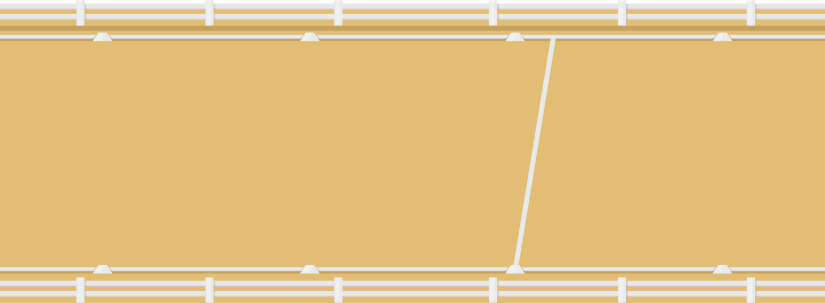
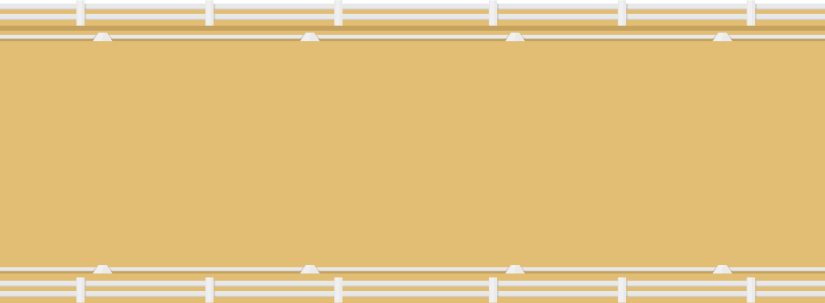
ui bugfixes

Changed region(s): [[0.6061, 0.1188, 0.697, 0.8614]]

diff --git a/src/components/PlayField/PlayField.tsx b/src/components/PlayField/PlayField.tsx
@@ -3,6 +3,7 @@ import Horse1 from './../../assets/images/horses/Horse1.svg?react'
 import Horse2 from './../../assets/images/horses/Horse2.svg?react'
 import Horse3 from './../../assets/images/horses/Horse3.svg?react'
 import Horse4 from './../../assets/images/horses/Horse4.svg?react'
+import FinishLine from './../../assets/images/FinishLine.svg?react'
 import HorseCrash from './../../assets/images/HorseCrash.svg'
 import { GameContext } from '../../context/GameContext'
 import { useContext, useEffect, useState } from 'react'
@@ -64,10 +65,18 @@ const PlayField = () => {
         if (!animationRunning) {
             setAnmationRunning(true)
             const background = document.getElementById("playfield-background");
+            const finishLine = document.getElementById('finish-line');
             const horse4 = document.getElementById('horse-4');
             const horse3 = document.getElementById('horse-3');
             const horse2 = document.getElementById('horse-2');
             const horse1 = document.getElementById('horse-1');
+
+            if (finishLine) {
+                finishLine.style.animation = 'start 10s ease-in'
+                setTimeout(() => {
+                    finishLine.style.visibility = 'hidden'
+                }, 5000)
+            }
 
             if (background && horse4 && horse3 && horse2 && horse1) {
                 background.style.animation = 'slide 10s ease-in infinite'
@@ -118,7 +127,7 @@ const PlayField = () => {
         <div
             style={{
                 backgroundImage: `url(${RaceTrack})`,
-                backgroundPositionX: '470px',
+                backgroundPositionX: '0px',
                 zIndex: 10,
                 // animation: 'slide 15s ease-in-out infinite',
             }}
@@ -131,14 +140,16 @@ const PlayField = () => {
                 id='horse-4'
                 style={{
                     left: !animationRunning ? '60px' : '15px',
-                    transition: 'left 6s ease-in-out'
+                    transition: 'left 6s ease-in-out',
+                    zIndex: 3
                 }}
             />
             <div
                 className='absolute bottom-[60%] sm:bottom-[68%] w-[182px] h-[154px] flex items-center justify-center'
                 style={{
                     backgroundImage: `url(${HorseCrash})`,
-                    display: 'none'
+                    display: 'none',
+                    zIndex: 4
                 }}
                 id='horse_crash-4'
             >
@@ -152,14 +163,16 @@ const PlayField = () => {
                 id='horse-3'
                 style={{
                     left: !animationRunning ? '45px' : '45%',
-                    transition: 'left 6s ease-in-out'
+                    transition: 'left 6s ease-in-out',
+                    zIndex: 3
                 }}
             />
             <div
                 className='absolute bottom-[40%] sm:bottom-[48%] w-[182px] h-[154px] flex items-center justify-center'
                 style={{
                     backgroundImage: `url(${HorseCrash})`,
-                    display: 'none'
+                    display: 'none',
+                    zIndex: 4
                 }}
                 id='horse_crash-3'
             >
@@ -173,7 +186,8 @@ const PlayField = () => {
                 id='horse-2'
                 style={{
                     left: !animationRunning ? '30px' : '60%',
-                    transition: 'left 6s ease-in-out'
+                    transition: 'left 6s ease-in-out',
+                    zIndex: 3
                 }}
             />
             <div
@@ -181,6 +195,7 @@ const PlayField = () => {
                 style={{
                     backgroundImage: `url(${HorseCrash})`,
                     display: 'none',
+                    zIndex: 4,
                 }}
                 id='horse_crash-2'
             >
@@ -194,14 +209,16 @@ const PlayField = () => {
                 id='horse-1'
                 style={{
                     left: !animationRunning ? '15px' : '25%',
-                    transition: 'left 6s ease-in-out'
+                    transition: 'left 6s ease-in-out',
+                    zIndex: 3
                 }}
             />
             <div
                 className='absolute bottom-[0] sm:bottom-[8%] w-[182px] h-[154px] flex items-center justify-center'
                 style={{
                     backgroundImage: `url(${HorseCrash})`,
-                    display: 'none'
+                    display: 'none',
+                    zIndex: 4
                 }}
                 id='horse_crash-1'
             >
@@ -210,6 +227,16 @@ const PlayField = () => {
                     className='drop-shadow-lg'
                 /> */}
             </div>
+
+            <FinishLine 
+                id="finish-line"
+                style={{
+                    position: 'absolute',
+                    left: '158px',
+                    top: '38px',
+                    zIndex: 2,
+                }}
+            />
 
             {/*  */}
         </div>

diff --git a/src/components/FieldBackground/FieldBackground.tsx b/src/components/FieldBackground/FieldBackground.tsx
@@ -10,7 +10,7 @@ import "./animation.css";
 
 const FieldBackground = () => {
     const {gameData, multiplierDisplay, selectedHorse, horseResults, isCashedOut} = useContext(GameContext);
-    const {isMoving, isNewGameSession, isCrashed} = gameData
+    const {isMoving, isCrashed} = gameData
     const [animationRunning, setAnmationRunning] = useState(false)
     const [isReadyMessage, setIsReadyMessage] = useState(false)
     const [multiplierValue, setMultiplierValue] = useState(multiplierDisplay);
@@ -82,7 +82,7 @@ const FieldBackground = () => {
         setTimeout(() => {
             setIsReadyMessage(false)
             setAnmationRunning(true)
-        }, 3000)
+        }, 5000)
         const fieldBg1 = document.getElementById("field-bg-1");
         const fieldBg2 = document.getElementById("field-bg-2");
         const fieldBg3 = document.getElementById("field-bg-3");
@@ -112,8 +112,8 @@ const FieldBackground = () => {
         const fieldBg3 = document.getElementById("field-bg-3");
         const fieldBg4 = document.getElementById("field-bg-4");
 
+        setAnmationRunning(false);
         if (fieldBg1 && fieldBg2 && fieldBg3 && fieldBg4) {
-            setAnmationRunning(false);
             fieldBg1.style.animation = 'slide 9s ease-out';
             fieldBg2.style.animation = 'slide 7s ease-out';
             fieldBg3.style.animation = 'slide 5s ease-out';
@@ -124,7 +124,7 @@ const FieldBackground = () => {
     return (
         <div className='relative h-[40%] overflow-hidden'>
 
-            {!isNewGameSession && !(isCashedOut || isCrashed) ?
+            {!animationRunning && !(isCashedOut || isCrashed) ?
                 <div className='absolute z-[5] top-[16px] h-[62px] w-[80%] mx-[10%] flex items-center justify-center bg-whiteOpaque rounded-[16px]'>
                     {!isReadyMessage ?
                         <p className='uppercase font-[700] text-[25px]'>
@@ -142,7 +142,7 @@ const FieldBackground = () => {
                         className='w-full z-[10] absolute top-[16px] w-full text-center text-darkblue uppercase font-[800] text-[48px]'
                         id='multiplierValue'
                         >
-                        {multiplierValue && multiplierValue.toFixed(2)}X
+                        {multiplierValue && !isDisplayResult ? `${multiplierValue.toFixed(2)}X` : ''}
                     </p>
                     <StarBonusIcon
                         id='starBonus'

diff --git a/src/components/BottomUI/BottomUI.tsx b/src/components/BottomUI/BottomUI.tsx
@@ -67,7 +67,7 @@ const BottomUI = () => {
                     <p className='drop-shadow-lg'>-</p>
                 </button>
                 
-                <div className='text-white font-[700] text-[24px]'>
+                <div className={`${!isMoving ? 'text-white' : 'text-whiteOpaque'} font-[700] text-[24px]`}>
                     {currentBet.toFixed(2)}
                 </div>
                 
@@ -109,7 +109,8 @@ const BottomUI = () => {
             <div className='bg-darkblue rounded-[8px] w-full flex justify-between p-[6px] mt-[8px] flex flex-wrap gap-[4px]'>
                 {!isMoving && !resetBtn ? <button
                     onClick={betBtnOnclick}
-                    className='bg-green text-darkblue uppercase w-full rounded-[4px] font-[700] text-[24px]'
+                    disabled={!selectedHorse || currentBet < 1}
+                    className={`text-darkblue uppercase w-full rounded-[4px] font-[700] text-[24px] ${!selectedHorse || !currentBet ? 'bg-disabledGreen' : "bg-green"}`}
                 >
                     Bet
                 </button>

diff --git a/src/components/DisplayResult/DisplayResult.tsx b/src/components/DisplayResult/DisplayResult.tsx
@@ -17,7 +17,7 @@ const DisplayResult = () => {
             }
         >
             <div className={`border-[2px] border-b-[1px] border-solid border-white uppercase rounded-t-[8px] ${isCrashed ? 'text-yellow text-[24px] border-yellow' : 'text-white text-[18px]'}`}>
-                {selectedHorse && !isCrashed && isCashedOut ? `${isLastHorse && "Bonus Round"} Horse No.${selectedHorse}` : 'You crashed' }
+                {selectedHorse && !isCrashed && isCashedOut ? `${isLastHorse ? "Bonus Round" : ''} Horse No.${selectedHorse}` : 'You crashed' }
             </div>
             <div className={`border-[2px] border-solid border-white uppercase rounded-b-[8px] ${isCrashed ? 'text-white text-[18px] border-yellow' : (isLastHorse ? 'text-darkblue bg-yellow text-[24px]' : 'text-yellow text-[24px] ')}`}>
                 {selectedHorse && !isCrashed && isCashedOut ? `You won ${(betAmount*crashMultiplier).toFixed(2)}` : `At ${gameData.crashMultiplier.toFixed(2)}X`}

diff --git a/src/components/PlayField/animation.css b/src/components/PlayField/animation.css
@@ -1,11 +1,21 @@
 @keyframes slide {
-    from { background-position: 470 0; }
+    from { background-position: 0 0; }
     to { background-position: -1536px 0; }
 }
 
 @-webkit-keyframes slide {
-    from { background-position: 470 0; }
+    from { background-position: 0 0; }
     to { background-position: -1536px 0; }
+}
+
+@keyframes start {
+    from { left: 158px; }
+    to { left: -1378px ; }
+}
+
+@-webkit-keyframes start {
+    from { left: 158px; }
+    to { left: -1378px ; }
 }
 
 @keyframes shake {

diff --git a/tailwind.config.js b/tailwind.config.js
@@ -20,6 +20,7 @@ export default {
       darkblue: '#272D4A',
       cyan: '#74C8F8',
       green: '#16EE1E',
+      disabledGreen: '#549956',
       yellow: '#FEC700',
 
       backdropColor: 'rgba(0,0,0, 0.4)',
